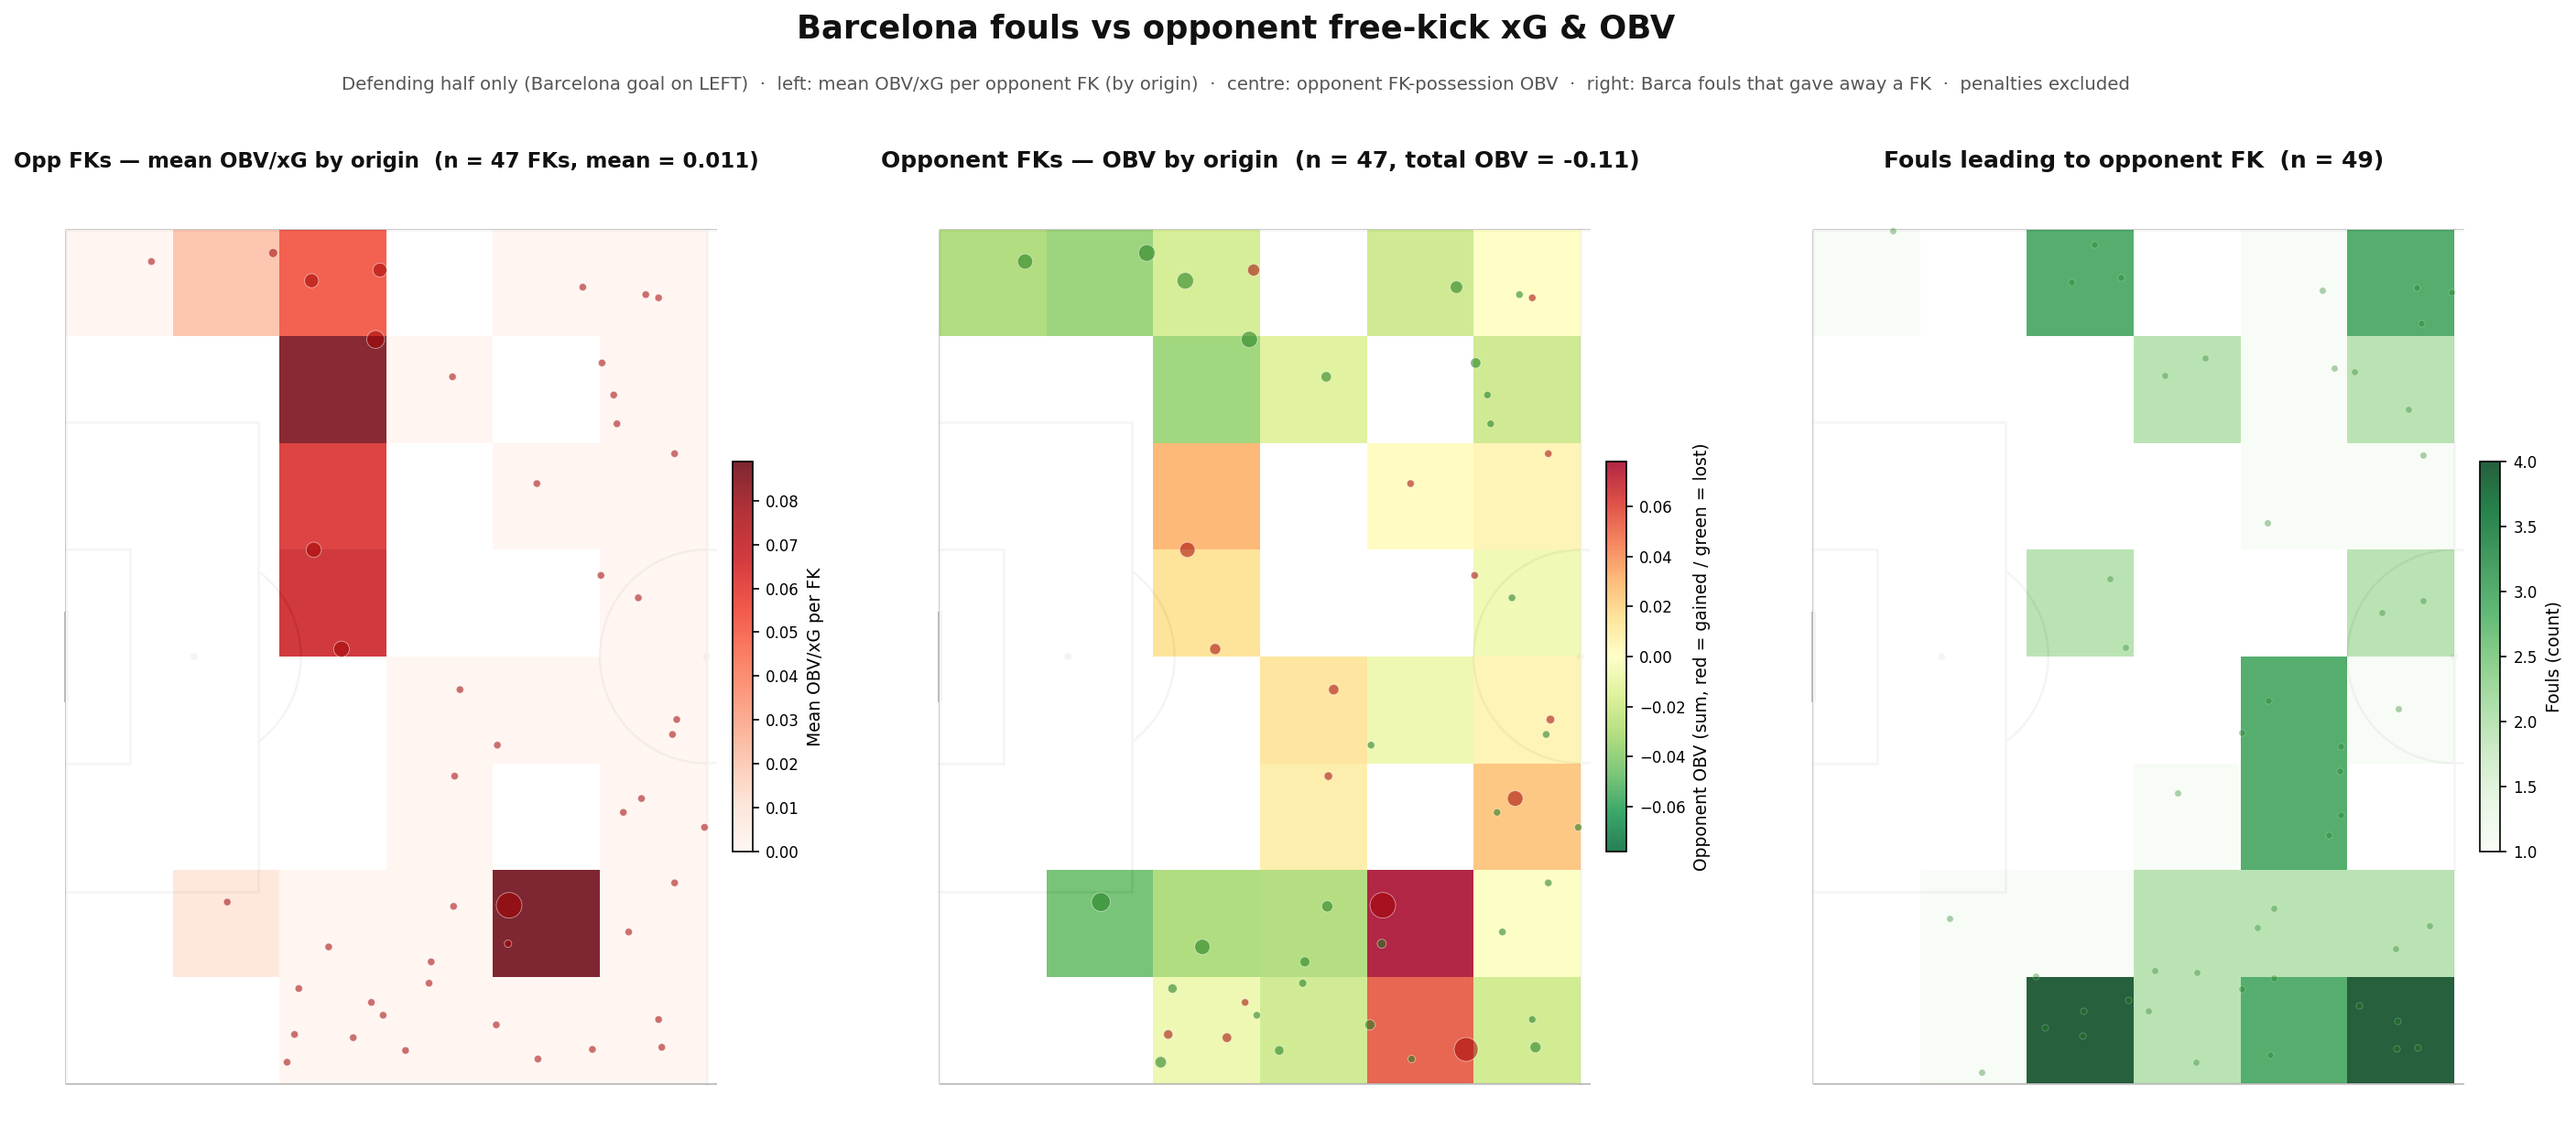
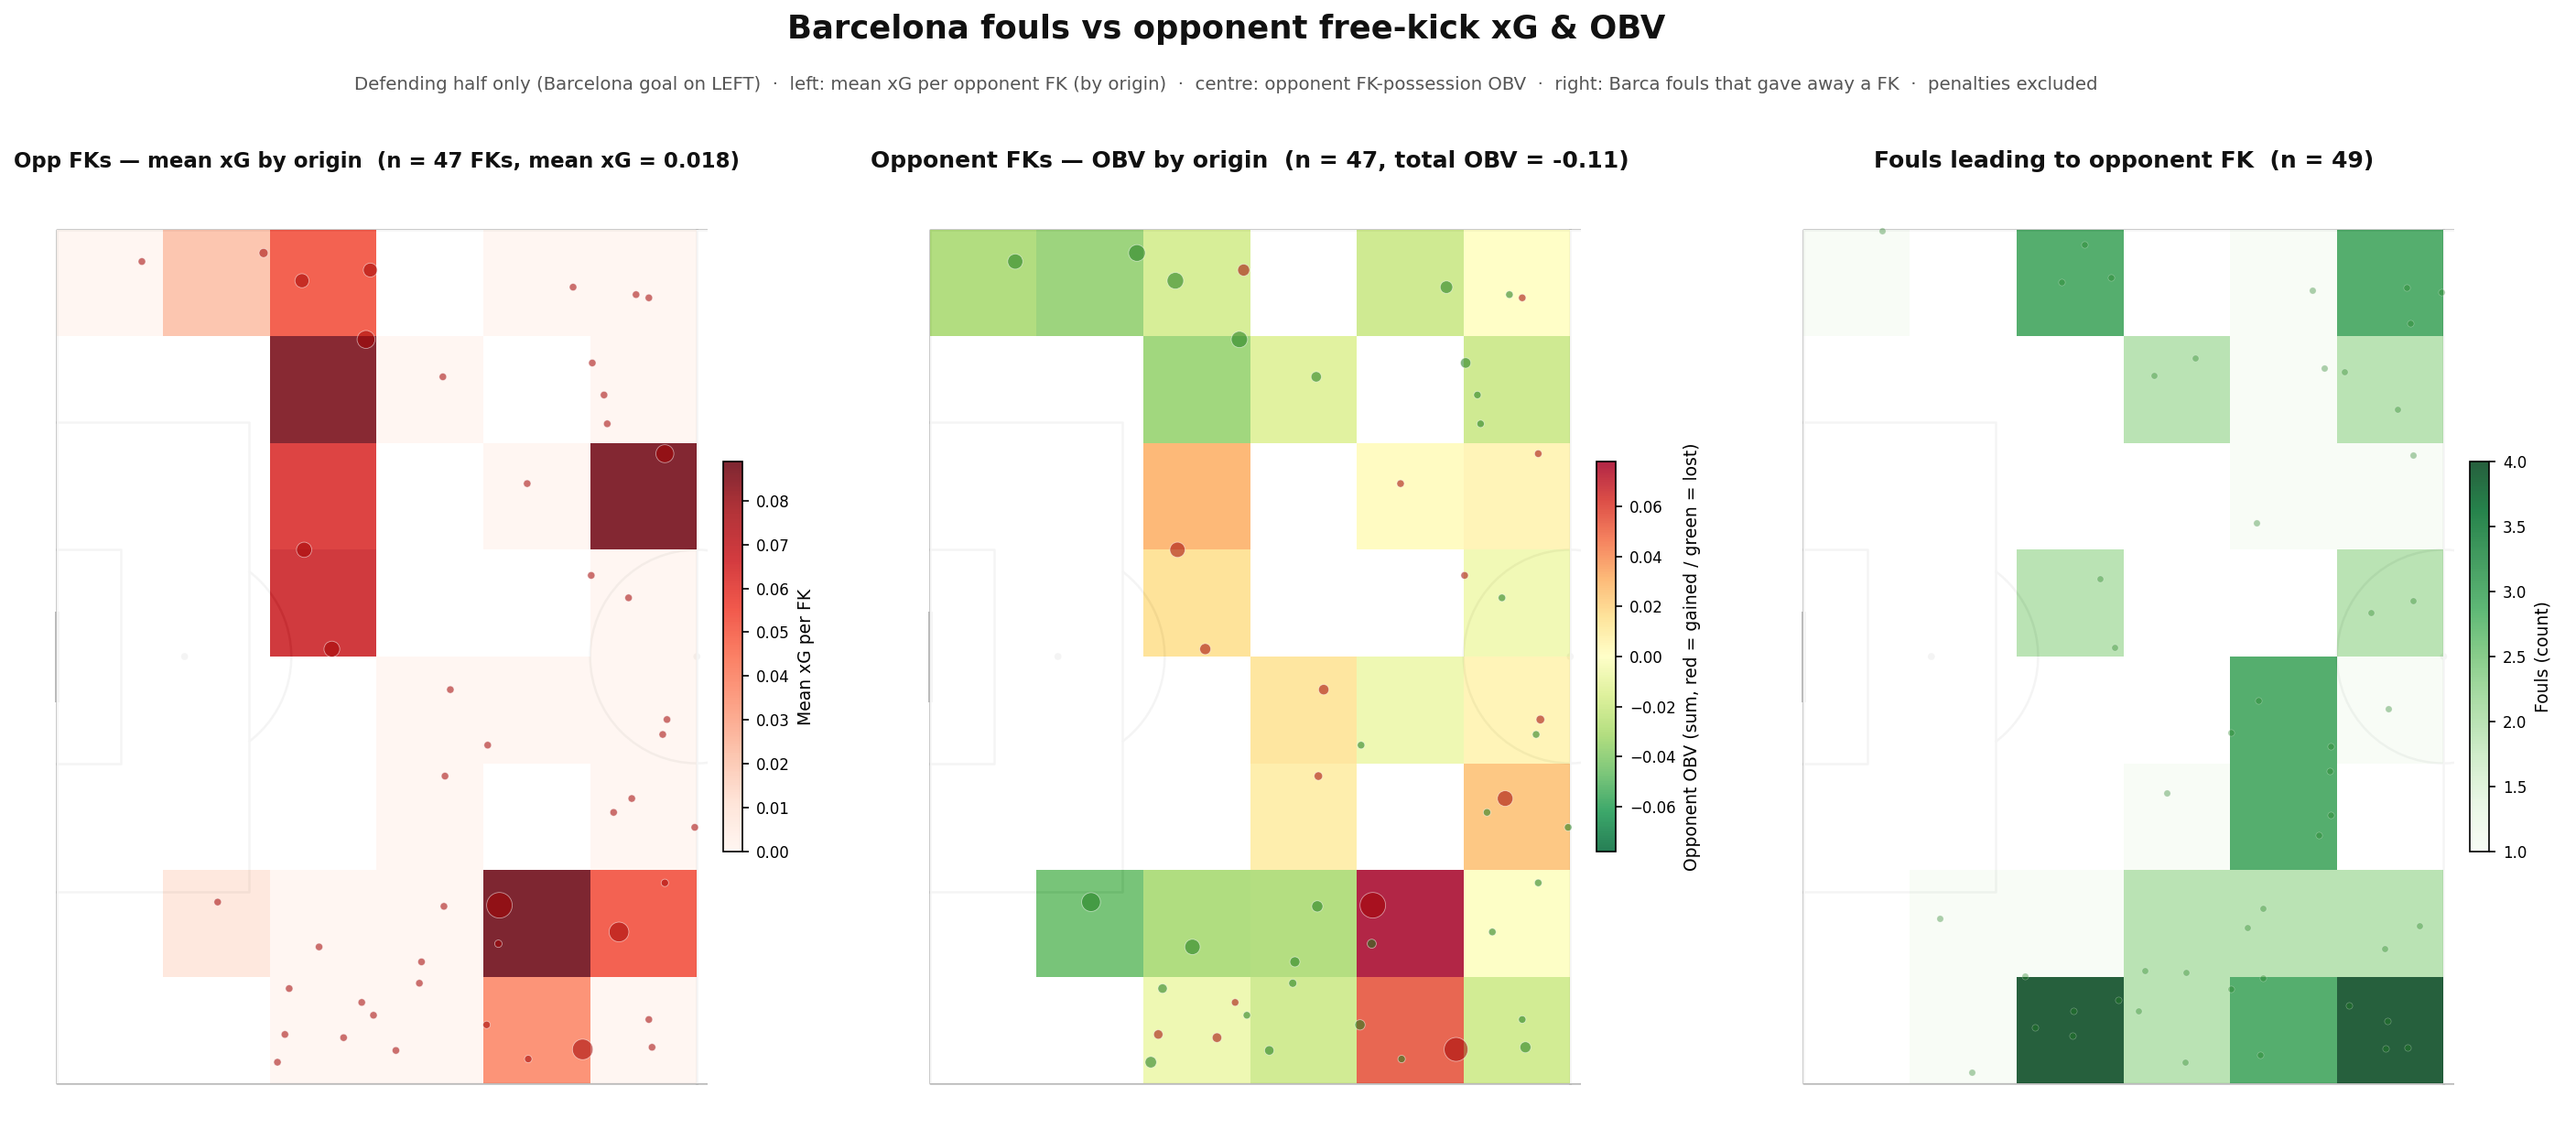
corrected defensive fouls-xG analysis

diff --git a/src/defense/fouls/fouls_freekicks.py b/src/defense/fouls/fouls_freekicks.py
@@ -348,12 +348,12 @@ def plot_foul_xg_heatmaps(
         fontsize=12, fontweight="bold", pad=10, color="#111111",
     )
 
-    # ── Left panel: per-FK mean OBV/xG by FK origin (red) ─────────────────────
+    # ── Left panel: per-FK mean xG by FK origin (red) ─────────────────────────
     ax_right = axes[0]  # variable kept for the rest of the function
 
     val_stats = pitch.bin_statistic(
         fk_xs, fk_ys,
-        values=fk_vals,
+        values=xgs,
         statistic="mean",
         bins=BINS,
     )
@@ -374,10 +374,10 @@ def plot_foul_xg_heatmaps(
         alpha=0.85,
     )
 
-    # Overlay each FK at its origin, sized by per-FK OBV/xG
+    # Overlay each FK at its origin, sized by per-FK xG
     if fk_xs:
-        max_v     = max((abs(v) for v in fk_vals), default=1.0) or 1.0
-        dot_sizes = [max(15, abs(v) / max_v * 180) for v in fk_vals]
+        max_v     = max((abs(v) for v in xgs), default=1.0) or 1.0
+        dot_sizes = [max(15, abs(v) / max_v * 180) for v in xgs]
         pitch.scatter(
             fk_xs, fk_ys,
             ax=ax_right,
@@ -395,12 +395,12 @@ def plot_foul_xg_heatmaps(
         fraction=0.025, pad=0.02,
         shrink=0.75,
     )
-    cb_right.set_label("Mean OBV/xG per FK", fontsize=9)
+    cb_right.set_label("Mean xG per FK", fontsize=9)
     cb_right.ax.tick_params(labelsize=8)
 
-    mean_v = sum(fk_vals) / len(fk_vals) if fk_vals else 0.0
+    mean_xg = sum(xgs) / len(xgs) if xgs else 0.0
     ax_right.set_title(
-        f"Opp FKs — mean OBV/xG by origin  (n = {len(fk_xs)} FKs, mean = {mean_v:.3f})",
+        f"Opp FKs — mean xG by origin  (n = {len(fk_xs)} FKs, mean xG = {mean_xg:.3f})",
         fontsize=11, fontweight="bold", pad=10, color="#111111",
     )
 
@@ -477,7 +477,7 @@ def plot_foul_xg_heatmaps(
     )
     fig.text(
         0.5, 0.91,
-        "Defending half only (Barcelona goal on LEFT)  ·  left: mean OBV/xG per opponent FK (by origin)  ·  centre: opponent FK-possession OBV  ·  right: Barca fouls that gave away a FK  ·  penalties excluded",
+        "Defending half only (Barcelona goal on LEFT)  ·  left: mean xG per opponent FK (by origin)  ·  centre: opponent FK-possession OBV  ·  right: Barca fouls that gave away a FK  ·  penalties excluded",
         ha="center", va="top",
         fontsize=9.5, color="#555555",
     )
